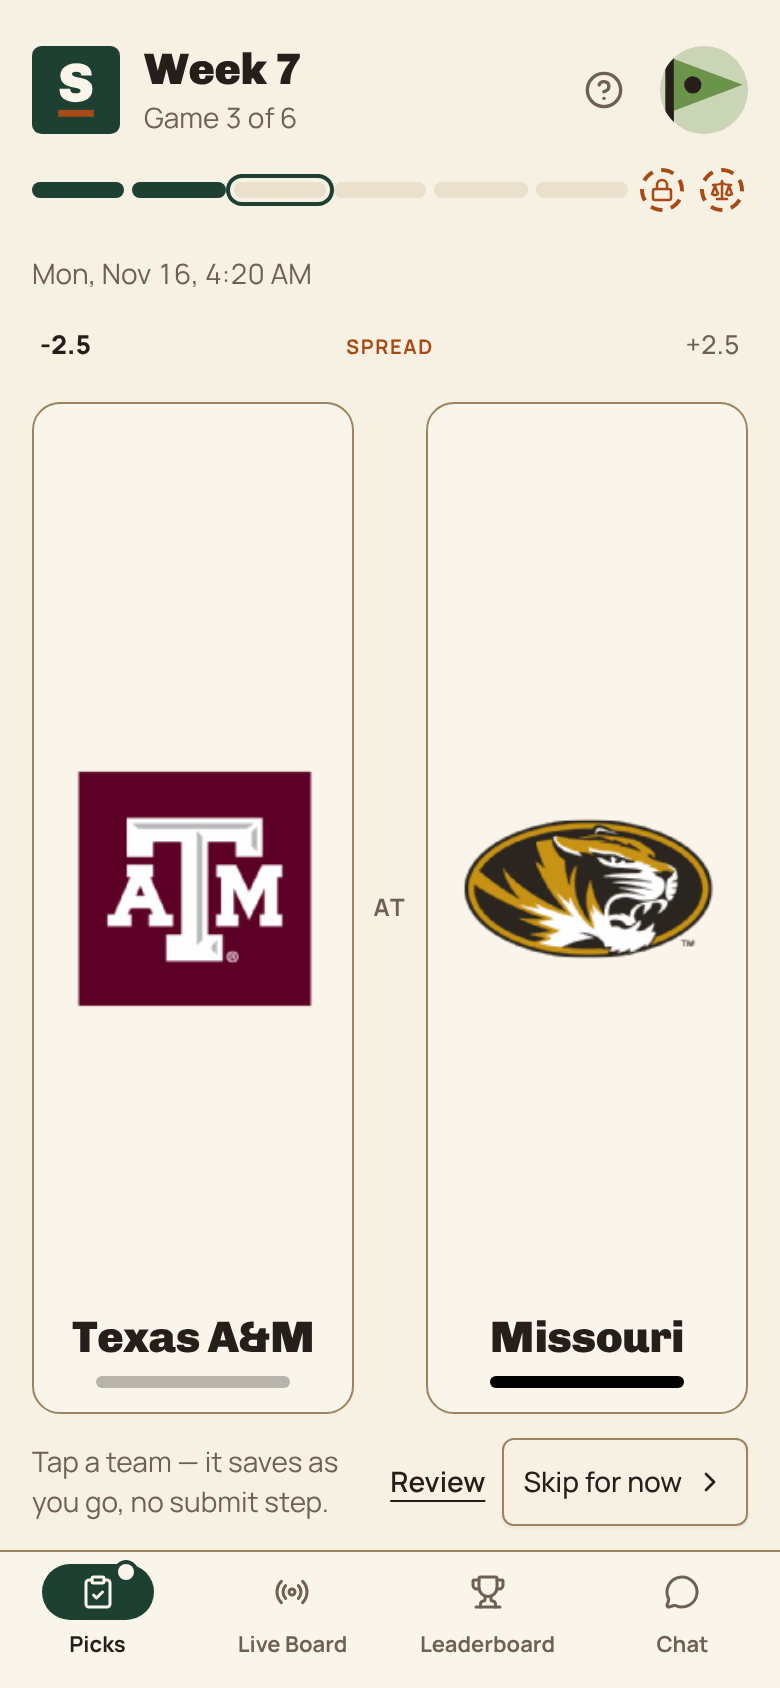
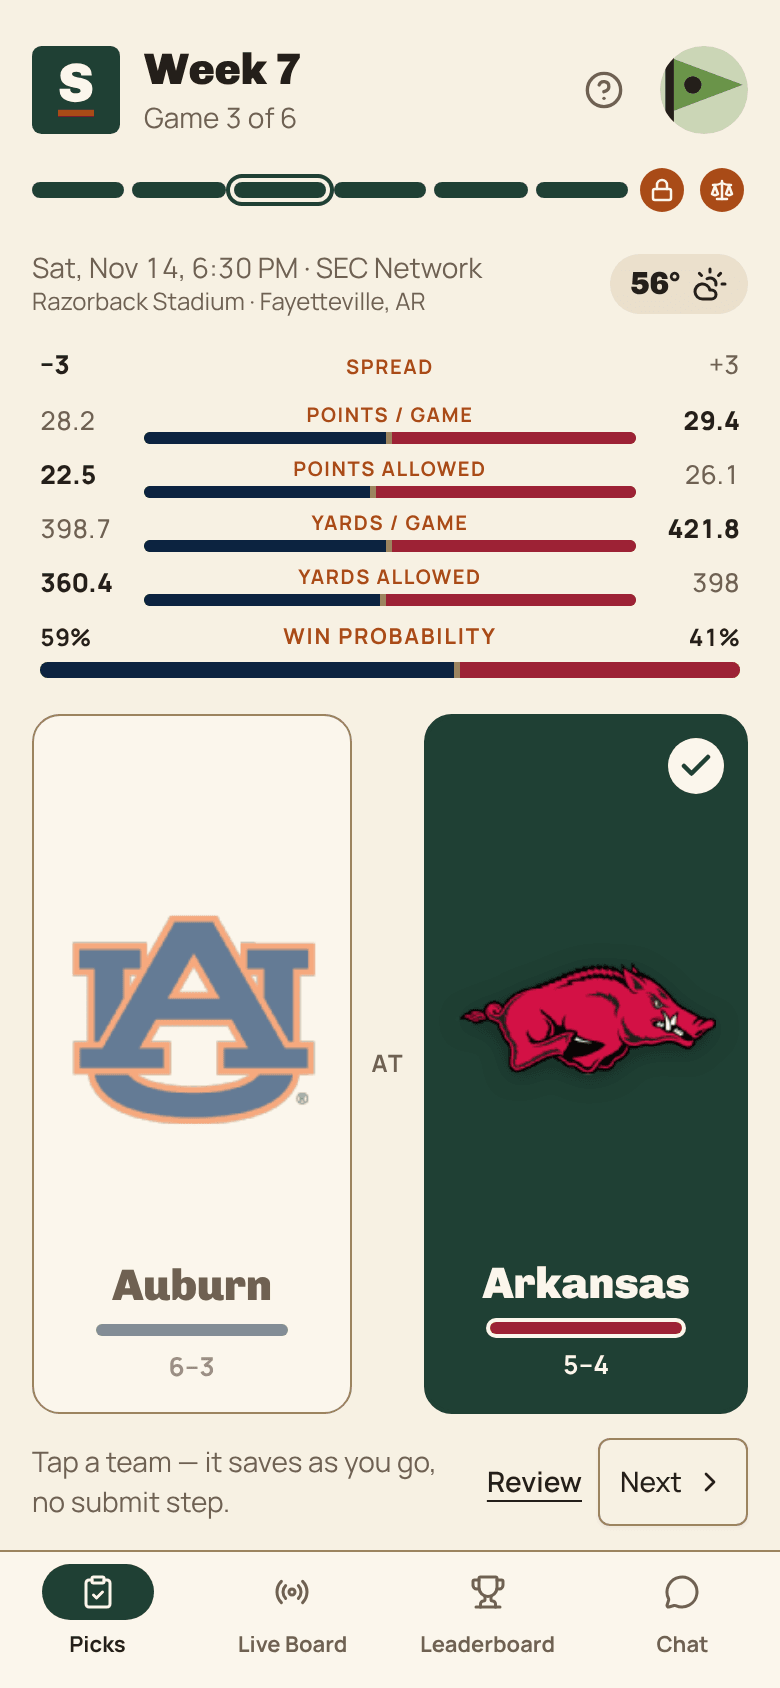
README: show the picks screen with its stat lines (#506)
The seeded agent database leaves games.detail empty, so the first picks
shot had no venue, TV, weather, ranks, records, stat lines or win
probability. Retaken on Auburn at Arkansas with that detail filled in,
and the social preview recomposed around it.

Claude-Session: https://claude.ai/code/session_01NzP3qsv6GhkQgo6aGVk9hx

diff --git a/README.md b/README.md
@@ -8,7 +8,7 @@ the games play out live, and the app grades every pick from real scores and keep
 leaderboard for each group.
 
 <p align="center">
-  <img src="docs/readme/picks.png" width="200" alt="Picking a game: Texas A&amp;M at Missouri, one tap per team">
+  <img src="docs/readme/picks.png" width="200" alt="Picking a game: Auburn at Arkansas, with the spread, each side's season stats and win probability above one tap per team">
   <img src="docs/readme/live-board.png" width="200" alt="The Live Board during Week 7, with Liberty leading Coastal Carolina in the second quarter">
   <img src="docs/readme/game-sheet.png" width="200" alt="A game's sheet: the field, the down and distance, and who picked each side">
   <img src="docs/readme/leaderboard.png" width="200" alt="A group's Week 7 leaderboard">
